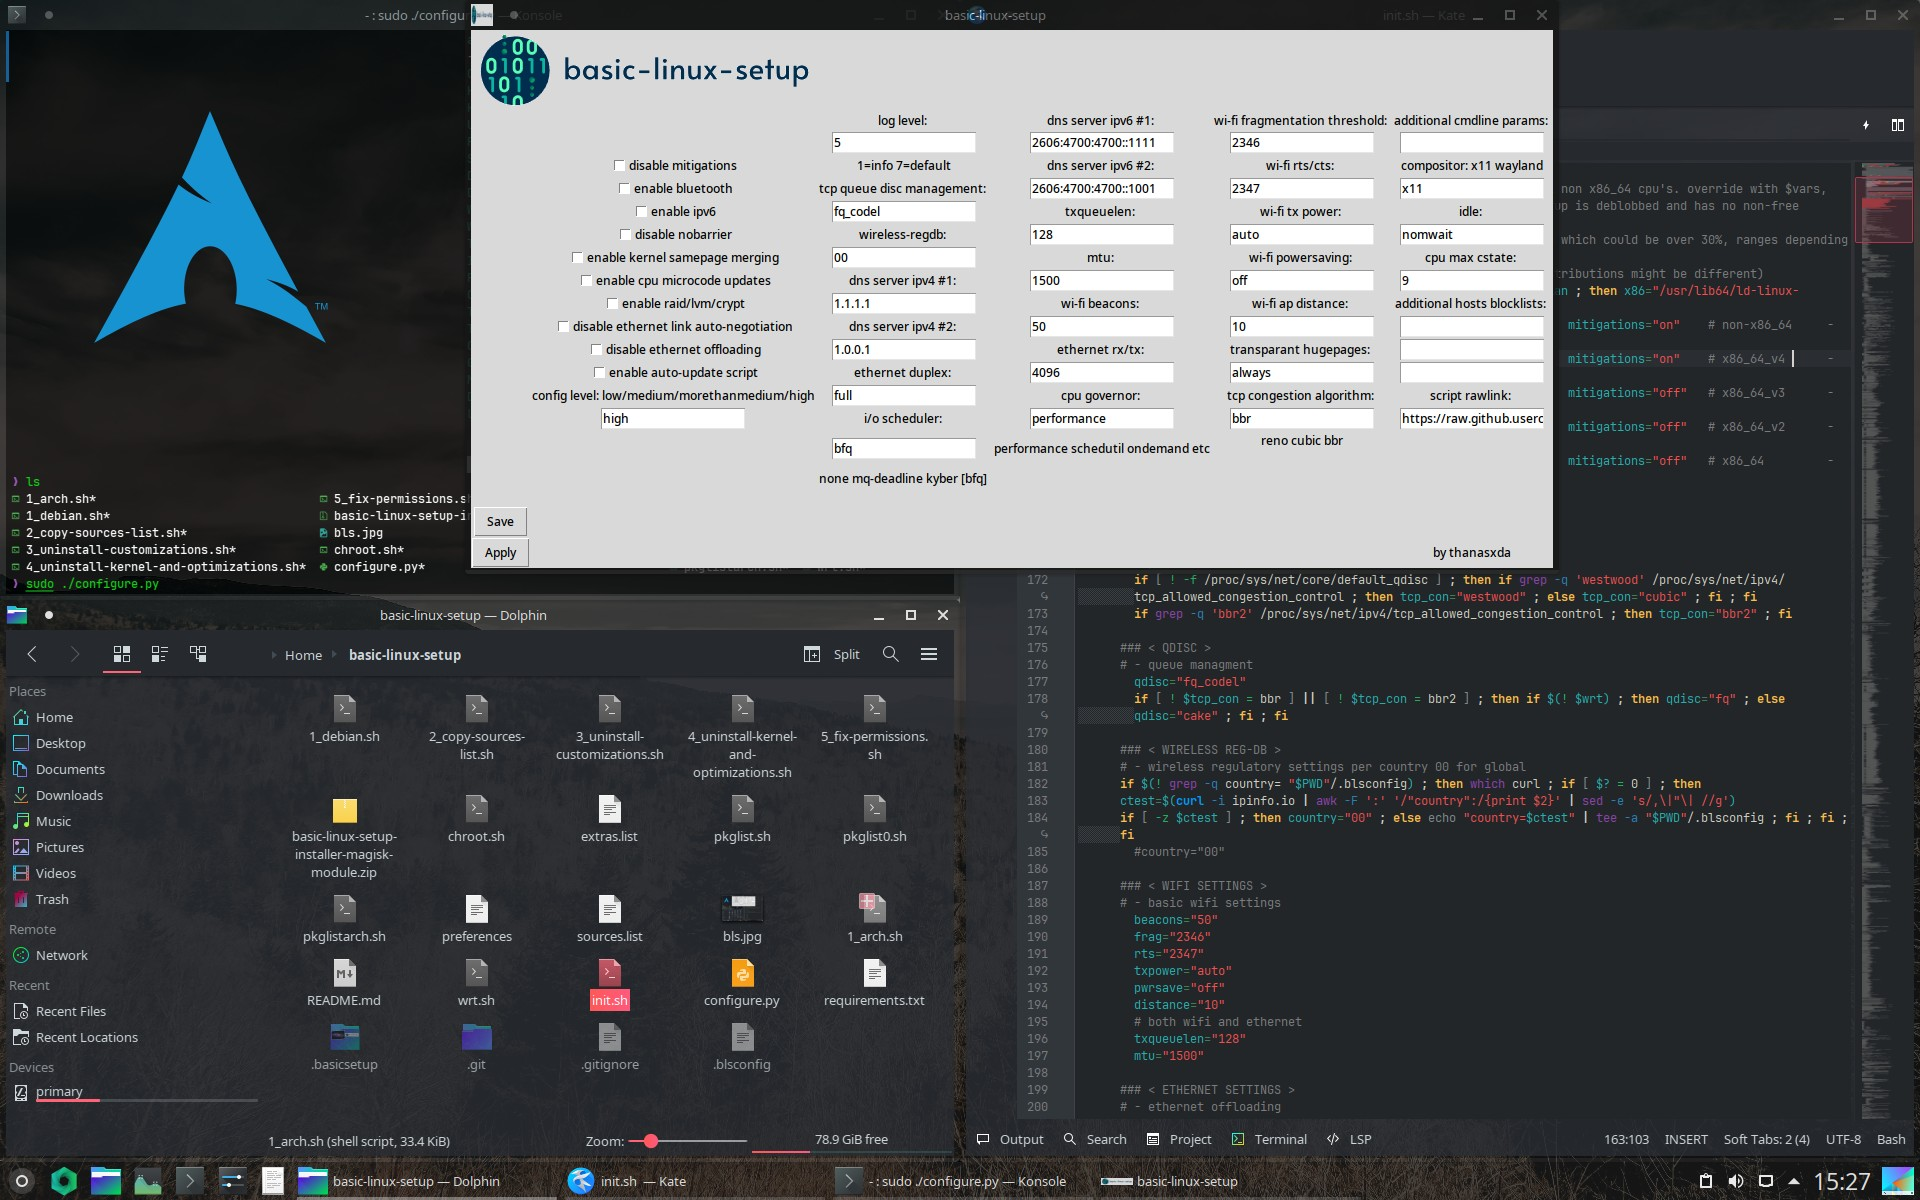
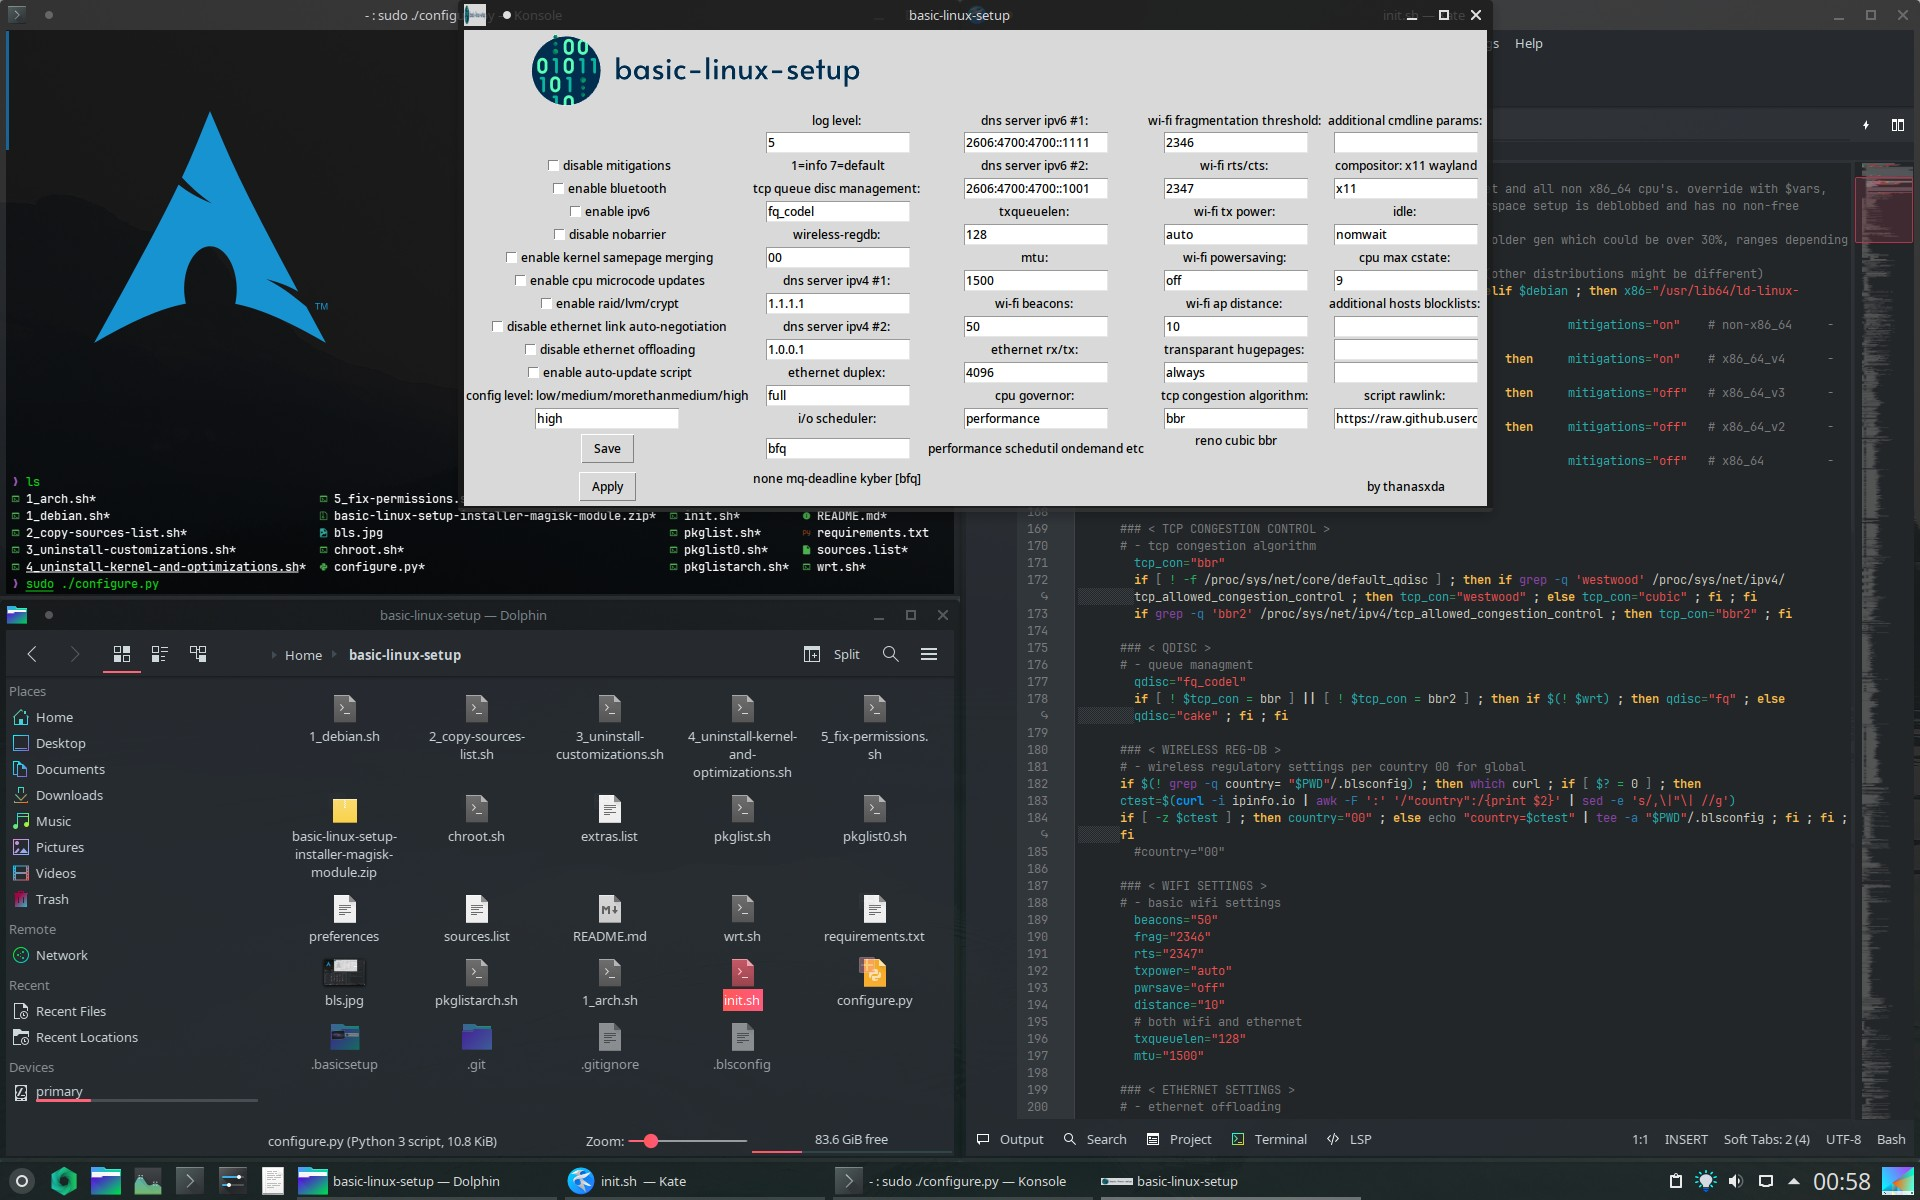
eol

diff --git a/configure.py b/configure.py
@@ -23,7 +23,7 @@ render = ImageTk.PhotoImage(load)
 root.iconphoto(False, render)
 cv = Canvas(root, highlightthickness=0, height=80, width=340)
 cv['bg']='black'
-cv.grid(column=0, columnspan=2)
+cv.grid(column=1, columnspan=2)
 cv.create_image(170, 0, image=render, anchor='n')
 
 # checkboxes
@@ -273,15 +273,15 @@ def addConf():
     os.system("echo '"+config+"' | sudo tee $PWD/.blsconfig ; sudo cp $PWD/.blsconfig /etc/.blsconfig")
 
 btn = Button(root, text='Save', command=addConf)
-btn.grid()
+btn.grid(row=15, column=1)
 
 # apply config
 def applyConf():
     os.system("sudo cp $PWD/configure.py /etc/configure.py ; if [ -e $PWD/init.sh ] ; then sudo cp init.sh /etc/rc.local ; fi ; sudo sh /etc/rc.local")
 
 btn2 = Button(root, text='Apply', command=applyConf)
-btn2.grid()
+btn2.grid(row=16, column=1)
 
-Label(root, text='by thanasxda').grid(row=18, column=5)
+Label(root, text='by thanasxda').grid(row=16, column=5)
 
 root.mainloop()
